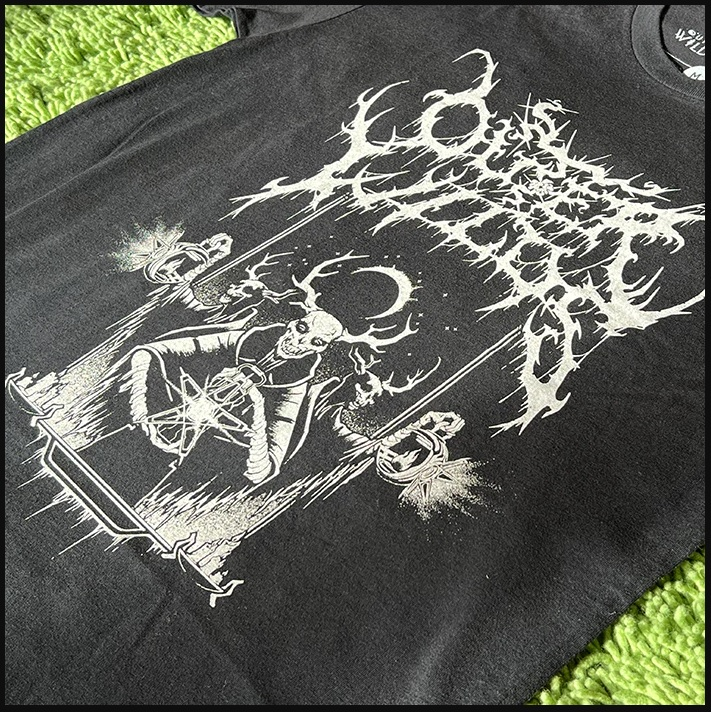
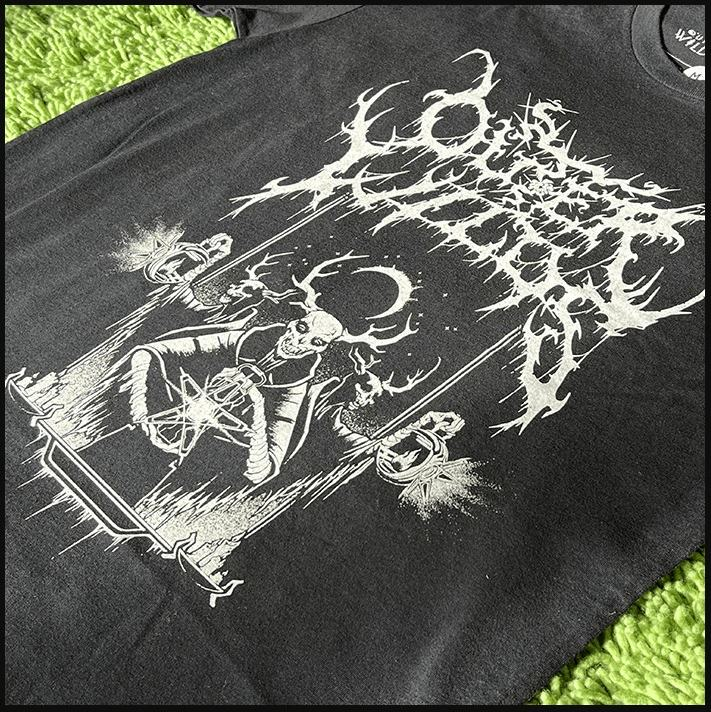
Optimizacion de imagenes

diff --git a/pages/productos.html b/pages/productos.html
@@ -54,7 +54,7 @@
                 </h2>
                 <div class="row">
                     <div class="col-lg-6 col-md-6 col-sm-12 borderMerch mb-4">
-                        <img src="../img/ow-reme.png" class="ropa" alt="Remera Outer Wilds">
+                        <img src="../img/ow-reme.jpg" class="ropa" alt="Remera Outer Wilds">
                         <p>Buzo Estatua Nomai</p>
                         <a href="" class="botonComprar">Comprar</a>
                     </div>
@@ -66,7 +66,7 @@
                 </div>
                 <div class="row">
                     <div class="col-lg-6 col-md-6 col-sm-12 borderMerch mb-4">
-                        <img src="../img/remera-hearthian.png" class="ropa" alt="Remera Outer Wilds">
+                        <img src="../img/remera-hearthian.jpg" class="ropa" alt="Remera Outer Wilds">
                         <p>Remera Lumbreano</p>
                         <a href="" class="botonComprar">Comprar</a>
                     </div>

diff --git a/index.html b/index.html
@@ -49,7 +49,7 @@
 
     <main>
         <div class="container"> 
-                    <img src="./img/ow-ban.png" class="index-banner" alt="Outer Wilds Banner">                
+                    <img src="./img/ow-ban.jpg" class="index-banner" alt="Outer Wilds Banner">                
             <div class="row">
                 <div class="hero col-12">
                     <p>Nombrado juego del año 2019 por Giant Bomb, Polygon, Eurogamer y The Guardian, es un galardonado
